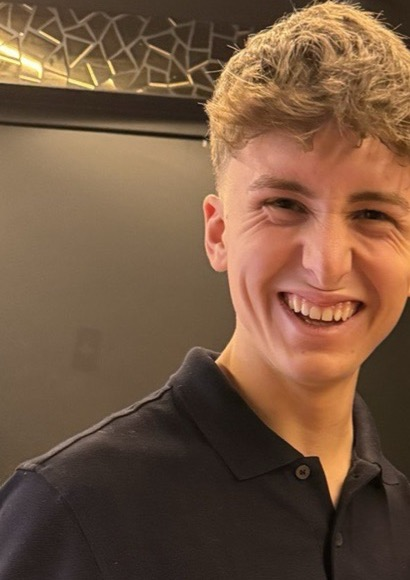
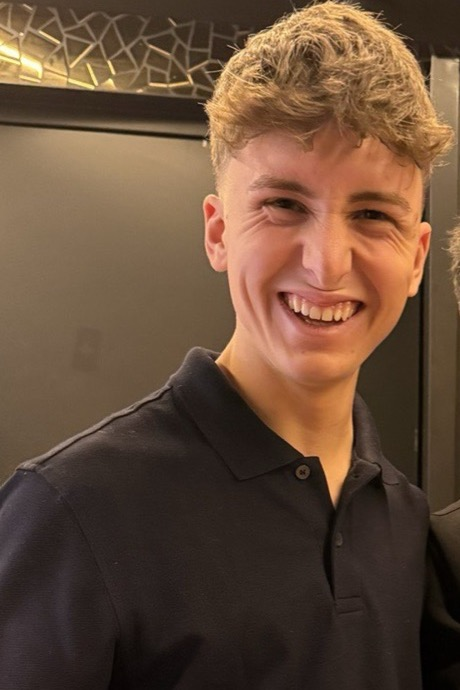
Rediseño: simplifica secciones y arregla hero móvil
- Hero móvil: orbit 360° en auto-play (~14s/vuelta), sin scroll-scrub,
  elimina el espacio blanco de 1000px que generaba el min-height 180vh.
- NFC: bloque destacado siempre visible (fondo brand azul, badge gold).
- Elimina la sección "¿Tu negocio está en Google Maps?" (era demasiado grande).
- Elimina la cadena de supply chain "Otras marcas" y todos los textos
  de "Por qué cuesta lo que cuesta". Solo queda la imagen visual
  Producción → Tu Negocio, sin texto.
- Producción regenerada: Uriel ilustrado junto a la impresora 3D
  (referencia de carácter vía Higgsfield).
- Founder: recortada más ancha (460×690) para incluir cabeza, hombros
  y torso, no solo la cara.

diff --git a/index.html b/index.html
@@ -208,9 +208,10 @@ nav.glass.dark{
 .hero-orbit-track{ order: 1; position: relative; width: 100%; }
 .hero-copy{ order: 2; }
 @media (max-width: 879px){
-  /* Tall track on mobile so the canvas pins and the rotation has scroll distance to play */
-  .hero-orbit-track{ min-height: 180vh; }
-  .hero-stage{ position: sticky; top: 68px; }
+  /* En móvil NO usamos scroll-scrub — auto-play (ver JS). El orbit queda compacto, sin huecos. */
+  .hero-orbit-track{ min-height: 0; }
+  .hero-copy{ order: 1; }
+  .hero-orbit-track{ order: 2; }
 }
 @media (min-width:880px){
   .hero-grid{
@@ -234,10 +235,7 @@ nav.glass.dark{
 }
 @media (min-width:480px){ .hero-stage{ max-width: 320px; } }
 @media (min-width:880px){ .hero-stage{ max-width: 440px; padding-block: 0; margin-inline: auto; } }
-/* Sticky behavior must come AFTER the default position rule so it wins on mobile */
-@media (max-width: 879px){
-  .hero-stage{ position: sticky; top: 68px; }
-}
+/* Mobile: NO sticky — orbit es estático y auto-play (sin scroll-scrub) */
 
 .hero-halo{
   position: absolute;
@@ -641,36 +639,40 @@ details.faq p{ color: var(--muted); margin-top:12px; line-height:1.55; }
       Sin app · sin formación · sin cuotas · funciona en iPhone y Android
     </p>
 
-    <!-- NFC expandable -->
-    <details class="reveal mt-10 max-w-[820px] mx-auto group border border-line rounded-3xl bg-paper overflow-hidden">
-      <summary class="cursor-pointer list-none flex items-center justify-between gap-4 px-6 py-5 sm:px-7 sm:py-6">
-        <div class="flex items-center gap-3 min-w-0">
-          <span class="w-9 h-9 rounded-xl bg-brand/10 grid place-items-center shrink-0">
-            <svg width="18" height="18" viewBox="0 0 24 24" fill="none" stroke="#105BF5" stroke-width="2.4" stroke-linecap="round" stroke-linejoin="round"><path d="M5 12.55a11 11 0 0 1 14 0"/><path d="M1.42 9a16 16 0 0 1 21.16 0"/><path d="M8.53 16.11a6 6 0 0 1 6.95 0"/><line x1="12" y1="20" x2="12.01" y2="20"/></svg>
-          </span>
-          <div class="min-w-0">
-            <p class="font-display text-[17px] sm:text-[19px] font-extrabold tracking-tightest leading-tight">¿Y si quiero usar el NFC?</p>
-            <p class="text-[13px] muted">El stand también funciona con un solo gesto, sin escanear.</p>
+    <!-- NFC highlight — siempre visible, destacado en azul -->
+    <div class="reveal mt-14 relative">
+      <div class="absolute -top-3 left-1/2 -translate-x-1/2 z-10">
+        <span class="inline-flex items-center gap-1.5 bg-gold text-ink rounded-full px-3.5 py-1.5 text-[11px] font-extrabold tracking-wider uppercase shadow-lg">
+          <svg width="12" height="12" viewBox="0 0 24 24" fill="none" stroke="currentColor" stroke-width="2.6" stroke-linecap="round" stroke-linejoin="round"><path d="M13 2L3 14h9l-1 8 10-12h-9l1-8z"/></svg>
+          Aún más rápido
+        </span>
+      </div>
+      <div class="rounded-[28px] overflow-hidden bg-brand text-white shadow-[0_30px_80px_-20px_rgba(16,91,245,.45)]">
+        <div class="grid md:grid-cols-2 gap-0 items-stretch">
+          <div class="aspect-[4/5] md:aspect-auto md:min-h-[440px] overflow-hidden">
+            <img src="assets/img/paso-nfc.jpg" alt="Móvil acercándose al stand con ondas NFC y notificación abierta" width="1200" height="1500" class="w-full h-full object-cover" loading="lazy">
+          </div>
+          <div class="p-7 sm:p-10 flex flex-col justify-center">
+            <div class="flex items-center gap-2 mb-4">
+              <span class="w-10 h-10 rounded-xl bg-white/15 grid place-items-center shrink-0">
+                <svg width="20" height="20" viewBox="0 0 24 24" fill="none" stroke="currentColor" stroke-width="2.4" stroke-linecap="round" stroke-linejoin="round"><path d="M5 12.55a11 11 0 0 1 14 0"/><path d="M1.42 9a16 16 0 0 1 21.16 0"/><path d="M8.53 16.11a6 6 0 0 1 6.95 0"/><line x1="12" y1="20" x2="12.01" y2="20"/></svg>
+              </span>
+              <span class="text-[12px] font-bold uppercase tracking-wider text-white/70">Modo NFC</span>
+            </div>
+            <h3 class="font-display text-[28px] sm:text-[36px] font-extrabold tracking-tightest leading-[1.05] mb-4">
+              Acerca el móvil.<br>
+              <span class="text-gold">Y ya.</span>
+            </h3>
+            <p class="text-[15.5px] text-white/90 leading-relaxed mb-3 max-w-[380px]">
+              iPhone 7+ y casi todos los Android tienen NFC. El cliente acerca el móvil, le sale la notificación, pulsa las estrellas y listo. Sin escanear nada.
+            </p>
+            <p class="text-[13px] text-white/65 max-w-[380px]">
+              ¿Sin NFC? Usa el QR del mismo stand. Cubres a todo el mundo.
+            </p>
           </div>
         </div>
-        <svg class="shrink-0 transition-transform duration-300 group-open:rotate-45" width="22" height="22" viewBox="0 0 24 24" fill="none" stroke="currentColor" stroke-width="2.4" stroke-linecap="round" stroke-linejoin="round"><line x1="12" y1="5" x2="12" y2="19"/><line x1="5" y1="12" x2="19" y2="12"/></svg>
-      </summary>
-
-      <div class="grid md:grid-cols-2 gap-6 sm:gap-8 px-6 sm:px-7 pb-7 pt-2 items-center">
-        <div class="rounded-2xl overflow-hidden bg-brand aspect-[4/5]">
-          <img src="assets/img/paso-nfc.jpg" alt="Ilustración de un móvil acercándose al stand con ondas NFC y notificación de enlace abierto" width="1200" height="1500" class="w-full h-full object-cover" loading="lazy">
-        </div>
-        <div>
-          <p class="font-display text-[22px] sm:text-[26px] font-extrabold tracking-tightest leading-tight mb-3">Acerca el móvil. Y ya.</p>
-          <p class="body muted mb-4">
-            Los iPhone (modelo 7 o posterior) y casi todos los Android tienen lector NFC integrado. El cliente acerca el móvil al stand, le sale una notificación abriendo tu ficha de Google, pulsa las estrellas y publica. Sin abrir cámara, sin escanear nada.
-          </p>
-          <p class="text-[13px] muted">
-            ¿Su móvil es antiguo y no tiene NFC? No importa — usa el QR del mismo stand con la cámara. Cubres a todo el mundo.
-          </p>
-        </div>
       </div>
-    </details>
+    </div>
   </div>
 </section>
 
@@ -919,8 +921,8 @@ details.faq p{ color: var(--muted); margin-top:12px; line-height:1.55; }
       </p>
     </div>
     <div class="reveal">
-      <div class="rounded-[28px] overflow-hidden aspect-[4/5] bg-paper border border-line relative">
-        <img src="assets/img/founder-uriel.jpg" alt="Uriel, fundador de Toca y Opina" class="w-full h-full object-cover" style="object-position: 50% 30%;" loading="lazy">
+      <div class="rounded-[28px] overflow-hidden aspect-[2/3] sm:aspect-[3/4] bg-paper border border-line relative">
+        <img src="assets/img/founder-uriel.jpg" alt="Uriel, fundador de Toca y Opina" class="w-full h-full object-cover" style="object-position: 50% 35%;" loading="lazy">
         <div class="absolute bottom-4 left-4 right-4 bg-white/95 backdrop-blur-md rounded-2xl px-4 py-3 border border-line">
           <p class="font-semibold text-[14px] leading-tight text-ink">Uriel · Delta del Ebro</p>
           <p class="text-[12px] muted">Diseña, imprime y envía cada stand</p>
@@ -1060,184 +1062,11 @@ details.faq p{ color: var(--muted); margin-top:12px; line-height:1.55; }
   </div>
 </section>
 
-<!-- ===== WHY THIS PRICE — supply chain ===== -->
+<!-- ===== PRODUCCIÓN → TU NEGOCIO (visual, sin textos) ===== -->
 <section class="section bg-ink text-white">
-  <div class="wrap">
-    <p class="eyebrow text-gold reveal mb-5">Por qué cuesta lo que cuesta</p>
-    <h2 class="display display-lg reveal mb-5 max-w-[760px] text-white">
-      Cero intermediarios.<br>
-      <span class="text-white/55">Por eso no pagas su margen.</span>
-    </h2>
-    <p class="body text-white/70 reveal mb-10 max-w-[640px]">
-      Las marcas que venden estos stands online suelen ser revendedores: importan, distribuyen, marcan y te lo cobran con 4 márgenes encima. Yo no.
-    </p>
-
-    <!-- Other brands: visual flow -->
-    <div class="reveal mb-6">
-      <p class="eyebrow text-red-400 mb-3">Otras marcas</p>
-      <div class="bg-[#0F1733] border border-white/10 rounded-3xl p-3 sm:p-4 overflow-hidden">
-        <img src="assets/img/supply-chain.jpg" alt="Diagrama: fábrica China 3€ → importador EU +8€ → mayorista España +10€ → marca online +25€ → tú pagas 46-79€" width="1600" height="900" class="w-full rounded-2xl" loading="lazy">
-      </div>
-      <p class="text-[12px] text-white/45 mt-3 text-center">Cuatro manos, cuatro márgenes, cero contacto con quien lo hace.</p>
-    </div>
-
-    <!-- Toca y Opina: just me — production illustration mirroring 'Otras marcas' -->
-    <div class="reveal">
-      <p class="eyebrow text-gold mb-3">Toca y Opina</p>
-      <div class="bg-[#0F1733] rounded-3xl p-3 sm:p-4 overflow-hidden border border-white/10">
-        <img src="assets/img/produccion-tu.jpg" alt="Diagrama: producción (impresora 3D imprimiendo stands) → tú (cliente), sin intermediarios" width="1600" height="900" class="w-full rounded-2xl" loading="lazy">
-      </div>
-      <p class="text-[12px] text-white/55 mt-3 text-center">Una sola mano: la mía. Cero márgenes que paguen otros antes que tú.</p>
-    </div>
-
-    <p class="text-[13px] text-white/55 mt-8 text-center reveal max-w-[640px] mx-auto">
-      Mismo NFC. Misma calidad. Misma garantía. Solo que sin pagarle 4 márgenes a nadie.
-    </p>
-  </div>
-</section>
-
-<!-- ===== VERIFY BUSINESS IS ON GOOGLE ===== -->
-<section id="verifica" class="section bg-paper border-y border-line">
-  <div class="wrap">
-    <p class="eyebrow text-brand reveal mb-5">Compatibilidad</p>
-    <h2 class="display display-lg reveal mb-5 max-w-[760px]">
-      ¿Tu negocio está<br>
-      <span class="muted">en Google Maps?</span>
-    </h2>
-    <p class="body muted reveal mb-12 max-w-[600px]">
-      El stand redirige a tu ficha de Google. Compruébalo en 5 segundos.
-    </p>
-
-    <div class="grid lg:grid-cols-5 gap-6 sm:gap-8 items-start">
-
-      <!-- LEFT: Phone preview mockup -->
-      <div class="reveal lg:col-span-2 order-2 lg:order-1">
-        <div class="relative mx-auto max-w-[300px]">
-          <!-- iPhone-style mockup -->
-          <div class="relative bg-ink rounded-[42px] p-2.5 shadow-[0_30px_80px_-20px_rgba(16,91,245,.35),0_8px_24px_rgba(0,0,0,.18)]">
-            <div class="bg-white rounded-[34px] overflow-hidden aspect-[9/19]">
-              <!-- Status bar -->
-              <div class="flex items-center justify-between px-6 pt-3 pb-1 text-[11px] font-semibold text-ink">
-                <span>9:41</span>
-                <span class="flex items-center gap-1">
-                  <svg width="14" height="10" viewBox="0 0 18 12" fill="currentColor"><rect x="0" y="6" width="3" height="5" rx="1"/><rect x="5" y="3" width="3" height="8" rx="1"/><rect x="10" y="0" width="3" height="11" rx="1"/></svg>
-                  <svg width="14" height="10" viewBox="0 0 18 12" fill="none" stroke="currentColor" stroke-width="1.5"><rect x="0.5" y="2.5" width="14" height="7" rx="1.5"/><rect x="2" y="4" width="9" height="4" rx="0.5" fill="currentColor"/></svg>
-                </span>
-              </div>
-              <!-- Google search bar -->
-              <div class="px-3 pt-2 pb-3">
-                <div class="flex items-center gap-2 border border-line rounded-full px-3 py-2 bg-white shadow-sm">
-                  <svg width="16" height="16" viewBox="0 0 48 48">
-                    <path fill="#4285F4" d="M24 9.5c3.54 0 6.71 1.22 9.21 3.6l6.85-6.85C35.9 2.38 30.47 0 24 0 14.62 0 6.51 5.38 2.56 13.22l7.98 6.19C12.43 13.72 17.74 9.5 24 9.5z"/>
-                    <path fill="#34A853" d="M46.98 24.55c0-1.57-.15-3.09-.38-4.55H24v9.02h12.94c-.58 2.96-2.26 5.48-4.78 7.18l7.73 6c4.51-4.18 7.09-10.36 7.09-17.65z"/>
-                    <path fill="#FBBC05" d="M10.53 28.59c-.48-1.45-.76-2.99-.76-4.59s.27-3.14.76-4.59l-7.98-6.19C.92 16.46 0 20.12 0 24c0 3.88.92 7.54 2.56 10.78l7.97-6.19z"/>
-                    <path fill="#EA4335" d="M24 48c6.48 0 11.93-2.13 15.89-5.81l-7.73-6c-2.15 1.45-4.92 2.3-8.16 2.3-6.26 0-11.57-4.22-13.47-9.91l-7.98 6.19C6.51 42.62 14.62 48 24 48z"/>
-                  </svg>
-                  <span id="phone-q" class="text-[11px] text-ink2 font-medium truncate">tu negocio</span>
-                </div>
-              </div>
-              <!-- Map area -->
-              <div class="relative bg-[#E5EBF1] h-44 overflow-hidden">
-                <!-- Stylized map -->
-                <svg class="absolute inset-0 w-full h-full" viewBox="0 0 300 180" preserveAspectRatio="xMidYMid slice">
-                  <rect width="300" height="180" fill="#E8EEF2"/>
-                  <path d="M0 60 L300 80" stroke="#fff" stroke-width="6"/>
-                  <path d="M0 130 L300 110" stroke="#fff" stroke-width="6"/>
-                  <path d="M120 0 L140 180" stroke="#fff" stroke-width="5"/>
-                  <path d="M220 0 L210 180" stroke="#fff" stroke-width="5"/>
-                  <rect x="20" y="10" width="60" height="35" fill="#D5DCE2" rx="2"/>
-                  <rect x="90" y="100" width="40" height="40" fill="#D5DCE2" rx="2"/>
-                  <rect x="160" y="20" width="40" height="50" fill="#D5DCE2" rx="2"/>
-                  <rect x="230" y="120" width="50" height="40" fill="#D5DCE2" rx="2"/>
-                  <circle cx="60" cy="125" r="20" fill="#C8E6C9" opacity="0.6"/>
-                  <circle cx="250" cy="50" r="14" fill="#C8E6C9" opacity="0.6"/>
-                </svg>
-                <!-- Pin -->
-                <div class="absolute left-1/2 top-1/2 -translate-x-1/2 -translate-y-full" id="phone-pin">
-                  <svg width="36" height="46" viewBox="0 0 36 46" class="drop-shadow-lg">
-                    <path d="M18 0C8.06 0 0 8.06 0 18c0 13.5 18 28 18 28s18-14.5 18-28C36 8.06 27.94 0 18 0z" fill="#EA4335"/>
-                    <circle cx="18" cy="18" r="6" fill="#fff"/>
-                  </svg>
-                </div>
-              </div>
-              <!-- Business card -->
-              <div class="px-4 py-3 border-t border-line">
-                <p id="phone-name" class="font-bold text-[13px] text-ink truncate">Tu negocio</p>
-                <div class="flex items-center gap-1.5 mt-1">
-                  <span class="font-bold text-[12px] text-ink">4,8</span>
-                  <span class="stars">
-                    <svg width="11" height="11" viewBox="0 0 24 24" fill="#F5B941"><polygon points="12 2 15.09 8.26 22 9.27 17 14.14 18.18 21.02 12 17.77 5.82 21.02 7 14.14 2 9.27 8.91 8.26 12 2"/></svg>
-                    <svg width="11" height="11" viewBox="0 0 24 24" fill="#F5B941"><polygon points="12 2 15.09 8.26 22 9.27 17 14.14 18.18 21.02 12 17.77 5.82 21.02 7 14.14 2 9.27 8.91 8.26 12 2"/></svg>
-                    <svg width="11" height="11" viewBox="0 0 24 24" fill="#F5B941"><polygon points="12 2 15.09 8.26 22 9.27 17 14.14 18.18 21.02 12 17.77 5.82 21.02 7 14.14 2 9.27 8.91 8.26 12 2"/></svg>
-                    <svg width="11" height="11" viewBox="0 0 24 24" fill="#F5B941"><polygon points="12 2 15.09 8.26 22 9.27 17 14.14 18.18 21.02 12 17.77 5.82 21.02 7 14.14 2 9.27 8.91 8.26 12 2"/></svg>
-                    <svg width="11" height="11" viewBox="0 0 24 24" fill="#F5B941"><polygon points="12 2 15.09 8.26 22 9.27 17 14.14 18.18 21.02 12 17.77 5.82 21.02 7 14.14 2 9.27 8.91 8.26 12 2"/></svg>
-                  </span>
-                  <span class="text-[11px] muted">(<span id="phone-count">47</span>)</span>
-                </div>
-                <p class="text-[11px] muted mt-1">Abierto · Local de tu ciudad</p>
-                <div class="mt-2 inline-flex items-center gap-1 text-brand text-[11px] font-semibold">
-                  <svg width="11" height="11" viewBox="0 0 24 24" fill="none" stroke="currentColor" stroke-width="2.5" stroke-linecap="round" stroke-linejoin="round"><polygon points="12 2 15.09 8.26 22 9.27 17 14.14 18.18 21.02 12 17.77 5.82 21.02 7 14.14 2 9.27 8.91 8.26 12 2"/></svg>
-                  Escribir una reseña
-                </div>
-              </div>
-            </div>
-          </div>
-
-          <!-- Floating verified badge -->
-          <div class="absolute -top-3 -right-3 bg-emerald-500 text-white rounded-full px-3 py-1.5 text-[11px] font-bold flex items-center gap-1.5 shadow-lg shadow-emerald-500/40">
-            <svg width="12" height="12" viewBox="0 0 24 24" fill="none" stroke="currentColor" stroke-width="3" stroke-linecap="round" stroke-linejoin="round"><polyline points="20 6 9 17 4 12"/></svg>
-            En Google
-          </div>
-        </div>
-      </div>
-
-      <!-- RIGHT: Form + states -->
-      <div class="reveal lg:col-span-3 order-1 lg:order-2">
-        <div class="bg-white border border-line rounded-3xl p-6 sm:p-8">
-          <p class="text-[12px] eyebrow text-brand mb-3">Comprueba tu ficha</p>
-          <p class="font-display text-[22px] sm:text-[26px] font-extrabold tracking-tightest leading-tight mb-5">
-            Escribe el nombre de tu negocio.
-          </p>
-
-          <form id="biz-form" class="flex flex-col sm:flex-row gap-3 mb-4" onsubmit="event.preventDefault(); checkBusiness();">
-            <label class="flex-1 relative">
-              <span class="absolute left-4 top-1/2 -translate-y-1/2 pointer-events-none">
-                <svg width="18" height="18" viewBox="0 0 24 24" fill="none" stroke="#6B6B70" stroke-width="2.2" stroke-linecap="round" stroke-linejoin="round"><circle cx="11" cy="11" r="8"/><line x1="21" y1="21" x2="16.65" y2="16.65"/></svg>
-              </span>
-              <input id="biz-q" type="text" placeholder="Ej: Salon Epic Amposta" class="w-full bg-paper border border-line rounded-2xl pl-11 pr-4 h-14 text-[15px] font-medium text-ink focus:outline-none focus:border-brand transition" autocomplete="off">
-            </label>
-            <button type="submit" class="cta cta-blue flex-shrink-0">
-              Buscar
-              <svg width="14" height="14" viewBox="0 0 24 24" fill="none" stroke="currentColor" stroke-width="2.5" stroke-linecap="round" stroke-linejoin="round"><line x1="5" y1="12" x2="19" y2="12"/><polyline points="12 5 19 12 12 19"/></svg>
-            </button>
-          </form>
-
-          <p class="text-[12px] muted mb-7">Se abre Google Maps en una pestaña nueva. No guardamos tu búsqueda.</p>
-
-          <!-- Two outcomes — visually balanced -->
-          <div class="grid sm:grid-cols-2 gap-3">
-            <div class="border border-line rounded-2xl p-4 bg-paper">
-              <div class="flex items-center gap-2 mb-2">
-                <span class="w-7 h-7 rounded-full bg-emerald-100 grid place-items-center flex-shrink-0">
-                  <svg width="14" height="14" viewBox="0 0 24 24" fill="none" stroke="#10B981" stroke-width="3" stroke-linecap="round" stroke-linejoin="round"><polyline points="20 6 9 17 4 12"/></svg>
-                </span>
-                <p class="font-semibold text-[14px] text-ink leading-tight">Aparece tu ficha</p>
-              </div>
-              <p class="text-[12.5px] muted leading-snug">Listo. El stand te llegará configurado y funcionará desde el primer cliente.</p>
-            </div>
-            <div class="border border-line rounded-2xl p-4 bg-paper">
-              <div class="flex items-center gap-2 mb-2">
-                <span class="w-7 h-7 rounded-full bg-brand/10 grid place-items-center flex-shrink-0">
-                  <svg width="14" height="14" viewBox="0 0 24 24" fill="none" stroke="#105BF5" stroke-width="2.6" stroke-linecap="round" stroke-linejoin="round"><circle cx="12" cy="12" r="10"/><polyline points="12 6 12 12 16 14"/></svg>
-                </span>
-                <p class="font-semibold text-[14px] text-ink leading-tight">Aún no tienes ficha</p>
-              </div>
-              <p class="text-[12.5px] muted leading-snug">10 minutos. Dímelo por Vinted antes del envío y te paso los pasos exactos.</p>
-            </div>
-          </div>
-        </div>
-      </div>
-
+  <div class="wrap reveal">
+    <div class="rounded-3xl overflow-hidden border border-white/10 shadow-2xl bg-[#0F1733]">
+      <img src="assets/img/produccion-tu.jpg" alt="Uriel imprimiendo el stand y el stand sobre la barra de un negocio" width="1600" height="900" class="w-full h-auto block" loading="lazy">
     </div>
   </div>
 </section>
@@ -1469,6 +1298,7 @@ document.querySelectorAll('.reveal').forEach(el => io.observe(el));
   if (canvas){
     const FRAMES = parseInt(stage.dataset.orbitFrames || '97', 10);
     const PAD = parseInt(stage.dataset.orbitPad || '3', 10);
+    const isMobile = window.matchMedia('(max-width: 879px)').matches;
     const track = document.getElementById('hero-orbit-track') || stage;
     const ctx = canvas.getContext('2d', { alpha: false });
     const images = new Array(FRAMES);
@@ -1537,9 +1367,43 @@ document.querySelectorAll('.reveal').forEach(el => io.observe(el));
 
     // Kick off
     preload();
-    window.addEventListener('scroll', scheduleUpdate, { passive: true });
-    window.addEventListener('resize', scheduleUpdate, { passive: true });
-    scheduleUpdate();
+
+    if (isMobile){
+      // Auto-play loop suave — ~14s para giro completo (slower, smoother feel)
+      const FRAME_MS = 145; // 97 frames * 145ms ≈ 14s
+      let autoIdx = 0;
+      let lastTs = 0;
+      let acc = 0;
+      function loop(ts){
+        if (!lastTs) lastTs = ts;
+        acc += (ts - lastTs);
+        lastTs = ts;
+        while (acc >= FRAME_MS){
+          autoIdx = (autoIdx + 1) % FRAMES;
+          if (images[autoIdx] && images[autoIdx].complete && images[autoIdx].naturalWidth){
+            drawFrame(autoIdx);
+          }
+          acc -= FRAME_MS;
+        }
+        requestAnimationFrame(loop);
+      }
+      // Espera a tener al menos el frame 0 cargado, luego empieza el loop
+      const startWhenReady = () => {
+        if (images[0] && images[0].complete && images[0].naturalWidth){
+          drawFrame(0);
+          requestAnimationFrame(loop);
+        } else {
+          setTimeout(startWhenReady, 50);
+        }
+      };
+      startWhenReady();
+      // No scroll listener en móvil
+      window.addEventListener('resize', scheduleUpdate, { passive: true });
+    } else {
+      window.addEventListener('scroll', scheduleUpdate, { passive: true });
+      window.addEventListener('resize', scheduleUpdate, { passive: true });
+      scheduleUpdate();
+    }
   }
 
   // 3D parallax tilt — desktop only, not when reduced motion
